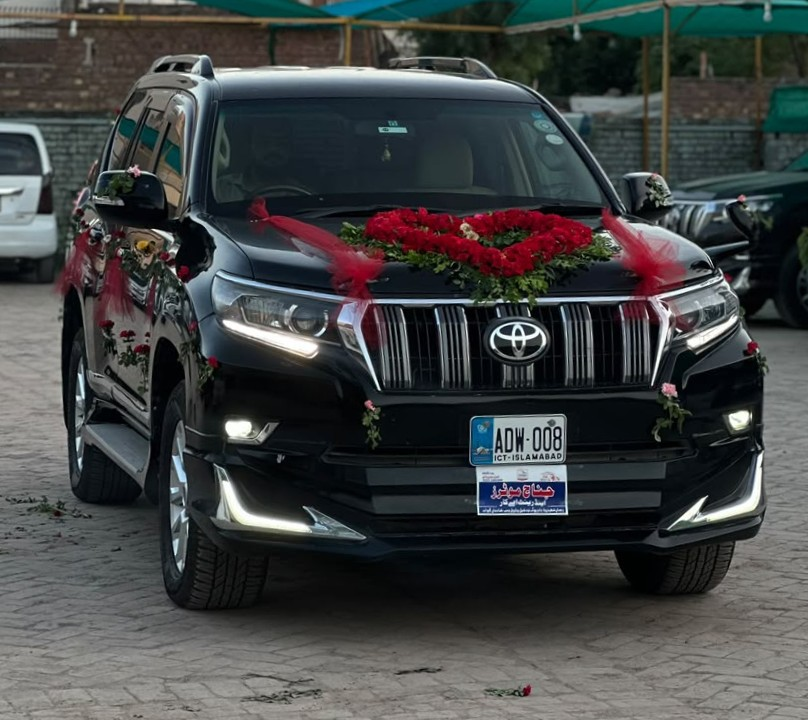
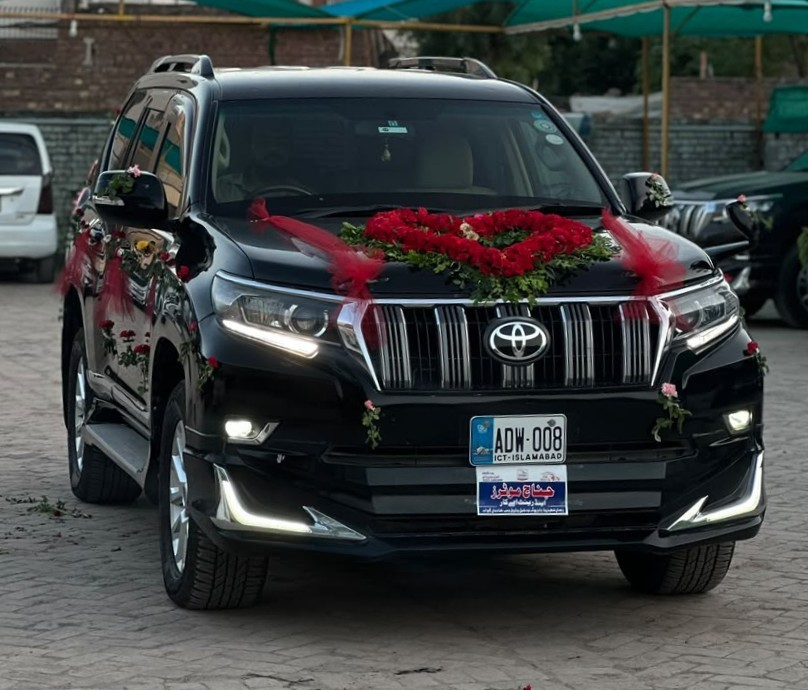
Added new car images and updated car data

diff --git a/src/data/cars.js b/src/data/cars.js
@@ -20,6 +20,7 @@ import {
   TOYOTA_REVO_IMAGE,
   TOYOTA_HIACE_HIGH_ROOF_IMAGE,
   TOYOTA_GRANDE_IMAGE,
+  TOYOTA_ALTIS_GLI_XLI_IMAGE,
   TOYOTA_YARIS_IMAGE,
   AUDI_A6_IMAGE,
   HONDA_CIVIC_11_IMAGE,
@@ -85,7 +86,7 @@ export const CARS = [
     id: 'lamborghini-urus',
     name: 'Lamborghini Urus',
     category: 'ultra-luxury',
-    pricePerDay: 260000,
+    pricePerDay: 1000000,
     image: LAMBORGHINI_URUS_IMAGE,
     alt: 'Lamborghini Urus performance luxury SUV rental Pakistan',
     featured: true,
@@ -262,7 +263,7 @@ export const CARS = [
     name: 'Toyota Altis / GLI / XLI',
     category: 'sedan',
     pricePerDay: 5000,
-    image: DEFAULT_CAR_IMAGE,
+    image: TOYOTA_ALTIS_GLI_XLI_IMAGE,
     alt: 'Toyota Corolla Altis GLI XLI sedan rental Pakistan',
   },
   {
@@ -289,14 +290,7 @@ export const CARS = [
     image: SUZUKI_ALTO_IMAGE,
     alt: 'Suzuki Alto HA36 660cc hatchback rental Pakistan',
   },
-  {
-    id: 'suzuki-cultus',
-    name: 'Suzuki Cultus',
-    category: 'economy',
-    pricePerDay: 3500,
-    image: DEFAULT_CAR_IMAGE,
-    alt: 'Suzuki Cultus Swift hatchback rental Pakistan',
-  },
+  
 ]
 
 export const CATEGORIES = [

diff --git a/src/constants/carImages.js b/src/constants/carImages.js
@@ -15,7 +15,7 @@ export const LEXUS_LIMOUSINE_IMAGE = '/Lexus%20Limousine.jpeg'
 export const TUNDRA_LIMOUSINE_IMAGE = '/Tundra%20Limousine.jpeg'
 export const MERCEDES_AMG_C_IMAGE = '/Mercedes%20AMG%20C%20Class.jpeg'
 export const MERCEDES_MAYBACH_IMAGE = '/Mercedes%20Maybach%20S%20Class.jpeg'
-export const PORSCHE_TAYCAN_IMAGE = '/Porsche%20Taycan.jpeg'
+export const PORSCHE_TAYCAN_IMAGE = '/Porsche%20Taycan.jpeg' 
 export const RANGE_ROVER_VOGUE_IMAGE = '/Range%20Rover%20Vogue.jpeg'
 export const TOYOTA_FORTUNER_IMAGE = '/Toyota%20Fortuner.jpeg'
 export const TOYOTA_TUNDRA_IMAGE = '/Toyota%20Tundra.jpeg'
@@ -25,6 +25,7 @@ export const TOYOTA_PRADO_TX_IMAGE = '/Toyota%20Prado%20TX.jpeg'
 export const TOYOTA_REVO_IMAGE = '/Toyota%20Revo.jpeg'
 export const TOYOTA_HIACE_HIGH_ROOF_IMAGE = '/Toyota%20Hiace%20High%20Roof.jpeg'
 export const TOYOTA_GRANDE_IMAGE = '/Toyota%20Grande.jpeg'
+export const TOYOTA_ALTIS_GLI_XLI_IMAGE = '/Toyota%20Altis%20GLI%20XLI.jpeg'
 export const TOYOTA_YARIS_IMAGE = '/Toyota%20Yaris.jpeg'
 export const AUDI_A6_IMAGE = '/Audi%20A6.jpeg'
 export const HONDA_CIVIC_11_IMAGE = '/Honda%20Civic%2011th%20Gen.jpeg'